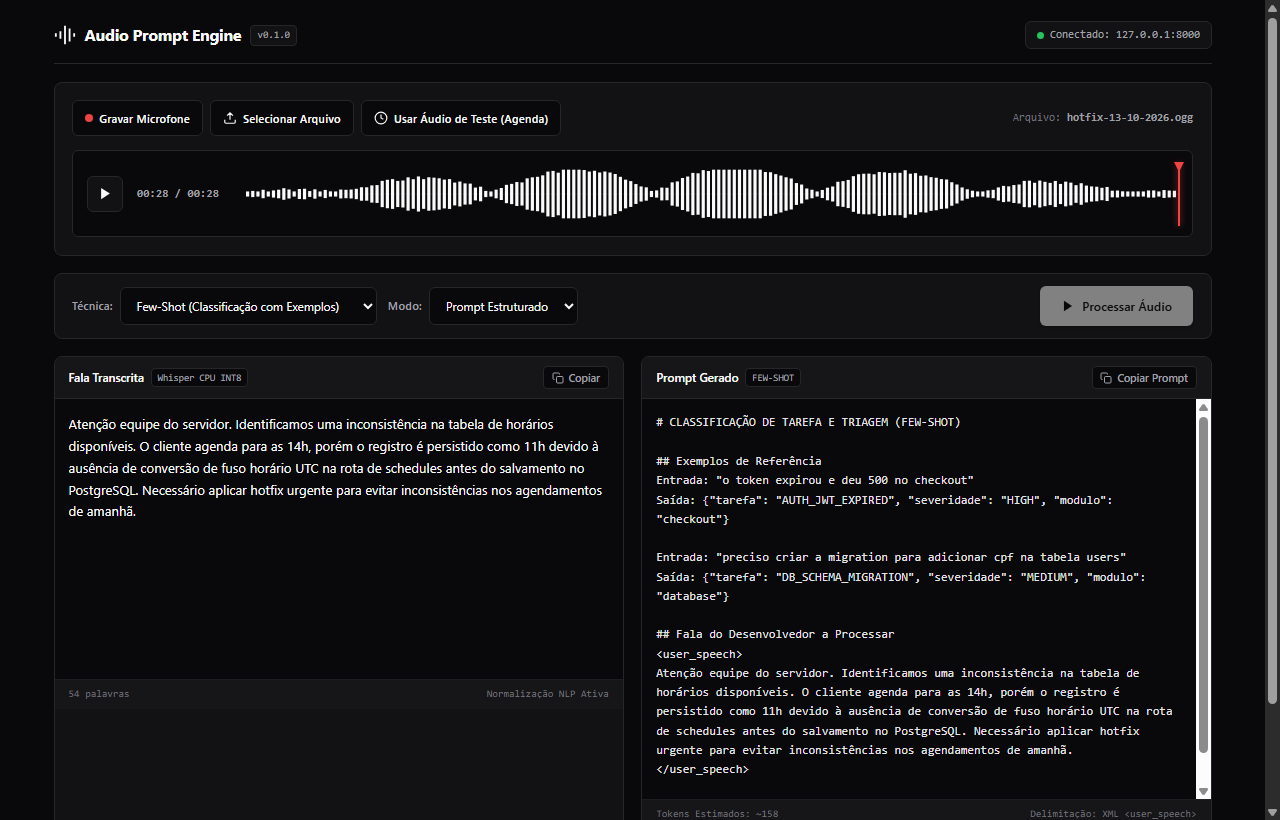
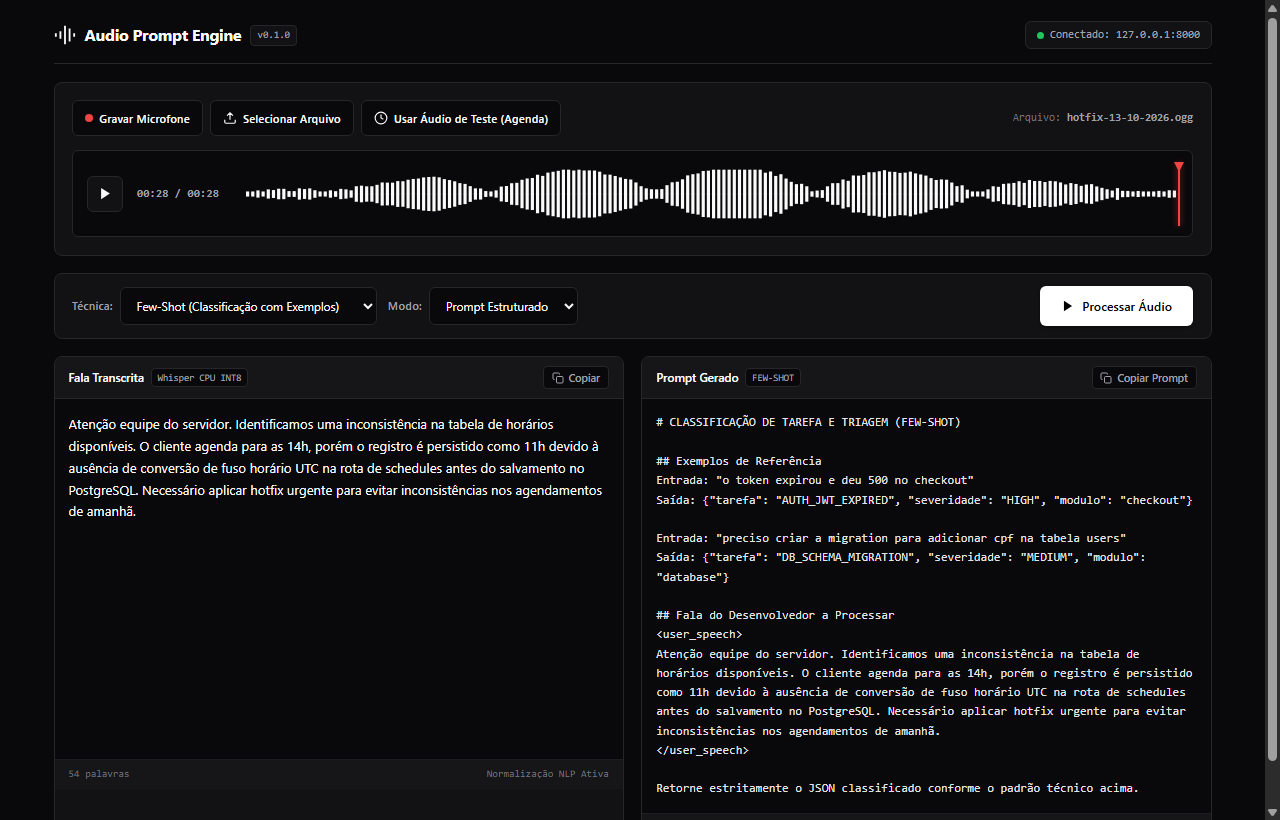
refactor: focus UI exclusively on Speech-to-Structured-Prompt compiler and update demo assets

diff --git a/docs/index.html b/docs/index.html
@@ -499,8 +499,8 @@
 
     .result-body {
       padding: 1rem;
-      min-height: 280px;
-      max-height: 400px;
+      min-height: 360px;
+      max-height: 520px;
       overflow-y: auto;
       background-color: var(--bg-input);
       display: flex;
@@ -546,44 +546,7 @@
       color: var(--text-muted);
     }
 
-    /* 5. TESTE COM LLM (DISCRETO E OPCIONAL) */
-    .llm-test-card {
-      background-color: var(--bg-card);
-      border: 1px solid var(--border-default);
-      border-radius: var(--radius-lg);
-      padding: 1rem 1.25rem;
-      display: flex;
-      flex-direction: column;
-      gap: 0.85rem;
-    }
 
-    .llm-test-row {
-      display: flex;
-      align-items: center;
-      justify-content: space-between;
-      flex-wrap: wrap;
-      gap: 0.75rem;
-    }
-
-    .llm-select-group {
-      display: flex;
-      align-items: center;
-      gap: 0.5rem;
-      flex-wrap: wrap;
-    }
-
-    .llm-response-container {
-      display: none;
-      background-color: var(--bg-page);
-      border: 1px solid var(--border-default);
-      border-radius: var(--radius-md);
-      padding: 1rem;
-      font-family: var(--font-sans);
-      font-size: 0.92rem;
-      line-height: 1.6;
-      color: var(--text-primary);
-      white-space: pre-wrap;
-    }
 
     /* Toast Discreto */
     .app-toast {
@@ -768,26 +731,7 @@
       </div>
     </section>
 
-    <!-- 5. TESTE COM LLM (OPCIONAL E DISCRETO) -->
-    <section class="llm-test-card">
-      <div class="llm-test-row">
-        <div class="llm-select-group">
-          <span class="control-label">Testar com LLM (Opcional):</span>
-          <select class="control-select" id="llm-provider-select" onchange="handleLlmProviderSelect()">
-            <option value="ollama" selected>Ollama Local (llama3)</option>
-            <option value="groq">Groq Cloud (llama-3.3-70b-versatile)</option>
-          </select>
-          <input type="password" id="groq-api-key-input" class="control-input" placeholder="Chave API Groq (gsk_...)" style="display: none; width: 240px;" oninput="localStorage.setItem('groq_api_key', this.value.trim())" />
-        </div>
 
-        <button type="button" class="btn-audio" id="btn-send-llm" onclick="sendToLlm()">
-          <svg viewBox="0 0 24 24"><path d="M22 2L11 13M22 2l-7 20-4-9-9-4 20-7z"/></svg>
-          <span>Enviar para LLM</span>
-        </button>
-      </div>
-
-      <div class="llm-response-container" id="llm-response-box"></div>
-    </section>
 
   </div>
 
@@ -849,13 +793,6 @@
           togglePlay();
         }
       });
-
-      // Restaurar chave salva da Groq do localStorage
-      const savedGroqKey = localStorage.getItem('groq_api_key');
-      const groqInput = document.getElementById('groq-api-key-input');
-      if (savedGroqKey && groqInput) {
-        groqInput.value = savedGroqKey;
-      }
 
       // Suporte a URL params (automação para GIF e testes)
       const params = new URLSearchParams(window.location.search);
@@ -1386,129 +1323,7 @@ ${speechBlock}`;
       document.getElementById('prompt-tokens-count').textContent = `Tokens Estimados: ~${tokens}`;
     }
 
-    /* --------------------------------------------------------------------------
-       EXECUÇÃO NO MODELO LLM (CONEXÃO REAL COM BACKEND)
-       -------------------------------------------------------------------------- */
-    function handleLlmProviderSelect() {
-      const provider = document.getElementById('llm-provider-select').value;
-      const groqKeyInput = document.getElementById('groq-api-key-input');
-      if (provider === 'groq') {
-        groqKeyInput.style.display = 'inline-block';
-        groqKeyInput.focus();
-      } else {
-        groqKeyInput.style.display = 'none';
-      }
-    }
 
-    async function sendToLlm() {
-      const btn = document.getElementById('btn-send-llm');
-      const box = document.getElementById('llm-response-box');
-      const providerValue = document.getElementById('llm-provider-select').value;
-      const currentPrompt = document.getElementById('prompt-output').textContent.trim();
-
-      if (!currentJobId) {
-        toast("Processe o áudio primeiro para gerar o job e o prompt.");
-        return;
-      }
-
-      if (!currentPrompt || currentPrompt.startsWith('Clique em')) {
-        toast("Processe o áudio primeiro para gerar o job e o prompt.");
-        return;
-      }
-
-      const groqKey = document.getElementById('groq-api-key-input').value.trim();
-      if (providerValue === 'groq' && groqKey) {
-        localStorage.setItem('groq_api_key', groqKey);
-      }
-
-      btn.disabled = true;
-      btn.innerHTML = `<span>Enviando...</span>`;
-      box.style.display = 'block';
-      box.textContent = `Aguardando inferência via ${providerValue === 'ollama' ? 'Ollama Local (llama3)' : 'Groq Cloud (llama-3.3-70b-versatile)'}...`;
-
-      const payload = {
-        provider: providerValue,
-        model: providerValue === 'ollama' ? 'llama3' : 'llama-3.3-70b-versatile',
-        prompt_override: currentPrompt
-      };
-      if (providerValue === 'groq' && groqKey) {
-        payload.api_key = groqKey;
-      }
-
-      try {
-        let res = await fetch(`${backendUrl}/api/v1/transcriptions/${currentJobId}/execute`, {
-          method: 'POST',
-          headers: {
-            'Content-Type': 'application/json',
-            'X-API-Key': 'dev-operator-alpha'
-          },
-          body: JSON.stringify(payload)
-        });
-
-        // Caso o backend responda 422 por validação estrita (extra_forbidden), reenviar apenas com provider e model
-        if (res.status === 422) {
-          const testErr = await res.clone().json().catch(() => ({}));
-          if (JSON.stringify(testErr).includes('extra_forbidden')) {
-            res = await fetch(`${backendUrl}/api/v1/transcriptions/${currentJobId}/execute`, {
-              method: 'POST',
-              headers: {
-                'Content-Type': 'application/json',
-                'X-API-Key': 'dev-operator-alpha'
-              },
-              body: JSON.stringify({
-                provider: providerValue,
-                model: providerValue === 'ollama' ? 'llama3' : 'llama-3.3-70b-versatile'
-              })
-            });
-          }
-        }
-
-        if (res.ok) {
-          const data = await res.json();
-          const respText = data.response_text || data.content || JSON.stringify(data, null, 2);
-          const execTime = data.execution_time_seconds ? `${data.execution_time_seconds.toFixed(2)}s` : '0.00s';
-          const tokens = data.tokens_used != null ? data.tokens_used : 'N/A';
-
-          box.innerHTML = `
-            <div style="white-space: pre-wrap; margin-bottom: 0.75rem;">${escapeHtml(respText)}</div>
-            <div style="font-family: var(--font-mono); font-size: 0.74rem; color: var(--text-muted); border-top: 1px solid var(--border-subtle); padding-top: 0.5rem;">
-              Modelo: ${escapeHtml(data.model || payload.model)} | Tempo: ${execTime} | Tokens: ${tokens}
-            </div>
-          `;
-          toast("Resposta da LLM recebida!");
-        } else {
-          const errData = await res.json().catch(() => ({}));
-          const errMsg = errData.detail || errData.error || errData.message || `Erro HTTP ${res.status}`;
-          box.innerHTML = `
-            <div style="color: #ef4444; font-family: var(--font-mono); font-size: 0.85rem; line-height: 1.5;">
-              Erro retornado pelo backend (${res.status}):<br>
-              ${escapeHtml(typeof errMsg === 'object' ? JSON.stringify(errMsg, null, 2) : String(errMsg))}
-            </div>
-          `;
-          toast(`Falha na execução LLM: ${typeof errMsg === 'string' ? errMsg : 'Erro HTTP ' + res.status}`);
-        }
-      } catch (networkErr) {
-        box.innerHTML = `
-          <div style="color: #ef4444; font-family: var(--font-mono); font-size: 0.85rem; line-height: 1.5;">
-            Falha de conexão com a API local em ${backendUrl}. Verifique se o servidor backend está rodando.
-          </div>
-        `;
-        toast("Não foi possível conectar ao backend local.");
-      } finally {
-        btn.disabled = false;
-        btn.innerHTML = `<svg viewBox="0 0 24 24"><path d="M22 2L11 13M22 2l-7 20-4-9-9-4 20-7z"/></svg><span>Enviar para LLM</span>`;
-      }
-    }
-
-    function escapeHtml(str) {
-      if (typeof str !== 'string') return String(str);
-      return str
-        .replace(/&/g, '&amp;')
-        .replace(/</g, '&lt;')
-        .replace(/>/g, '&gt;')
-        .replace(/"/g, '&quot;')
-        .replace(/'/g, '&#039;');
-    }
 
     /* --------------------------------------------------------------------------
        UTILITÁRIOS: COPIAR E TOAST

diff --git a/README.md b/README.md
@@ -1,6 +1,9 @@
 # Audio Prompt Engine
 
-Mecanismo em Python (FastAPI) que transcreve áudio localmente via Whisper INT8 em CPU, remove disfluências da fala e converte o texto em prompts estruturados para modelos de linguagem (LLMs).
+Compilador de prompts a partir de voz (*Speech-to-Structured-Prompt*) em Python (FastAPI). Transcreve áudio localmente via Whisper INT8 em CPU, remove disfluências da fala e compila o texto em prompts estruturados prontos para você copiar e colar no Claude, ChatGPT, Cursor ou PRs.
+
+O fluxo de valor é direto:  
+**Voz** -> **Whisper Medium INT8 (CPU)** -> **Normalização NLP** -> **Prompt Estruturado Pronto (com botão Copiar)**.
 
 ---
 
@@ -8,7 +11,7 @@ Mecanismo em Python (FastAPI) que transcreve áudio localmente via Whisper INT8 
 
 ![Audio Prompt Engine em Execução](docs/assets/studio-demo.gif)
 
-Ao executar `uv run uvicorn src.main:app --port 8000`, a interface web completa fica disponível em `http://localhost:8000/`, permitindo gravar pelo microfone ou enviar arquivos de áudio, acompanhar a transcrição em tempo real e testar a geração de prompts.
+Ao executar `uv run uvicorn src.main:app --port 8000`, a interface web completa fica disponível em `http://localhost:8000/`, permitindo gravar pelo microfone ou enviar arquivos de áudio, acompanhar a transcrição em tempo real, selecionar a técnica desejada e copiar o prompt estruturado gerado com um único clique.
 
 ---
 
@@ -41,10 +44,10 @@ Endpoints locais:
 
 ## Fluxo de Processamento
 
-1. **Entrada:** Gravação direta via microfone do navegador ou envio de arquivo de áudio (WAV, MP3, OGG, WebM, FLAC, M4A) com limite de até 25 MB.
-2. **Transcrição Local:** Inferência local via `faster-whisper` com o modelo `medium` (769M parâmetros em INT8 na CPU), garantindo maior fidelidade fonética para o português do Brasil sem envio de dados para APIs externas.
+1. **Entrada de Áudio:** Gravação direta via microfone do navegador ou envio de arquivo de áudio (WAV, MP3, OGG, WebM, FLAC, M4A) com limite de até 25 MB.
+2. **Transcrição Local:** Inferência local via `faster-whisper` com o modelo `medium` (769M parâmetros em INT8 na CPU), garantindo alta fidelidade fonética para o português do Brasil sem envio de dados para APIs externas.
 3. **Limpeza NLP:** Remoção algorítmica de hesitações (*"ééé"*, *"tipo assim"*, *"né"*) e desduplicação de repetições consecutivas (*"do do"* -> *"do"*).
-4. **Estruturação:** Higienização contra injeções acústicas e encapsulamento em prompt delimitado por tags `<user_speech>`.
+4. **Compilação do Prompt:** Higienização contra injeções acústicas e formatação em prompt estruturado delimitado por tags `<user_speech>`, pronto para cópia e envio direto para Claude, ChatGPT, Cursor ou PRs.
 
 ---
 
@@ -61,15 +64,6 @@ Endpoints locais:
 
 ---
 
-## Provedores de LLM Suportados
-
-Após sintetizar o prompt estruturado, é possível despachá-lo diretamente para um dos provedores suportados:
-
-- **Ollama Local:** Execução 100% offline e custo zero (`http://127.0.0.1:11434`, modelos `llama3` e `mistral`, configurável via `OLLAMA_BASE_URL`).
-- **Groq Cloud:** Inferência de alta velocidade via nuvem LPU (modelo `llama-3.3-70b-versatile`, com chave configurada no `.env` como `GROQ_API_KEY` ou informada diretamente na interface).
-
----
-
 ## Persistência em Banco SQLite
 
 Os jobs, transcrições e prompts compilados são persistidos localmente no banco SQLite em `data/audio_prompt_engine.db`, garantindo histórico de execuções com isolamento multi-tenant estrito.
@@ -82,11 +76,10 @@ Todas as rotas autenticadas exigem o header `X-API-Key`.
 
 | Método | Rota | Descrição |
 |---|---|---|
-| `GET` | `/` | Interface web da aplicação. |
-| `POST` | `/api/v1/transcriptions` | Envia áudio para transcrição limpa (`output_mode="txt"`) ou prompt estruturado (`output_mode="prompt"`). |
+| `GET` | `/` | Interface web da aplicação com gravação e botão de cópia de prompt. |
+| `POST` | `/api/v1/transcriptions` | Envia áudio para transcrição limpa (`output_mode="txt"`) ou compilação de prompt (`output_mode="prompt"`). |
 | `GET` | `/api/v1/transcriptions/{job_id}` | Consulta metadados, texto transcrito e prompt sintetizado de um job. |
 | `GET` | `/api/v1/transcriptions/{job_id}/txt` | Download da transcrição normalizada em texto puro (`text/plain`). |
-| `POST` | `/api/v1/transcriptions/{job_id}/execute` | Envia o prompt compilado para execução no provedor LLM configurado. |
 | `GET` | `/api/v1/techniques` | Catálogo das 6 técnicas de engenharia de prompt suportadas. |
 | `GET` | `/health` | Verificação de integridade e status do modelo Whisper. |
 
